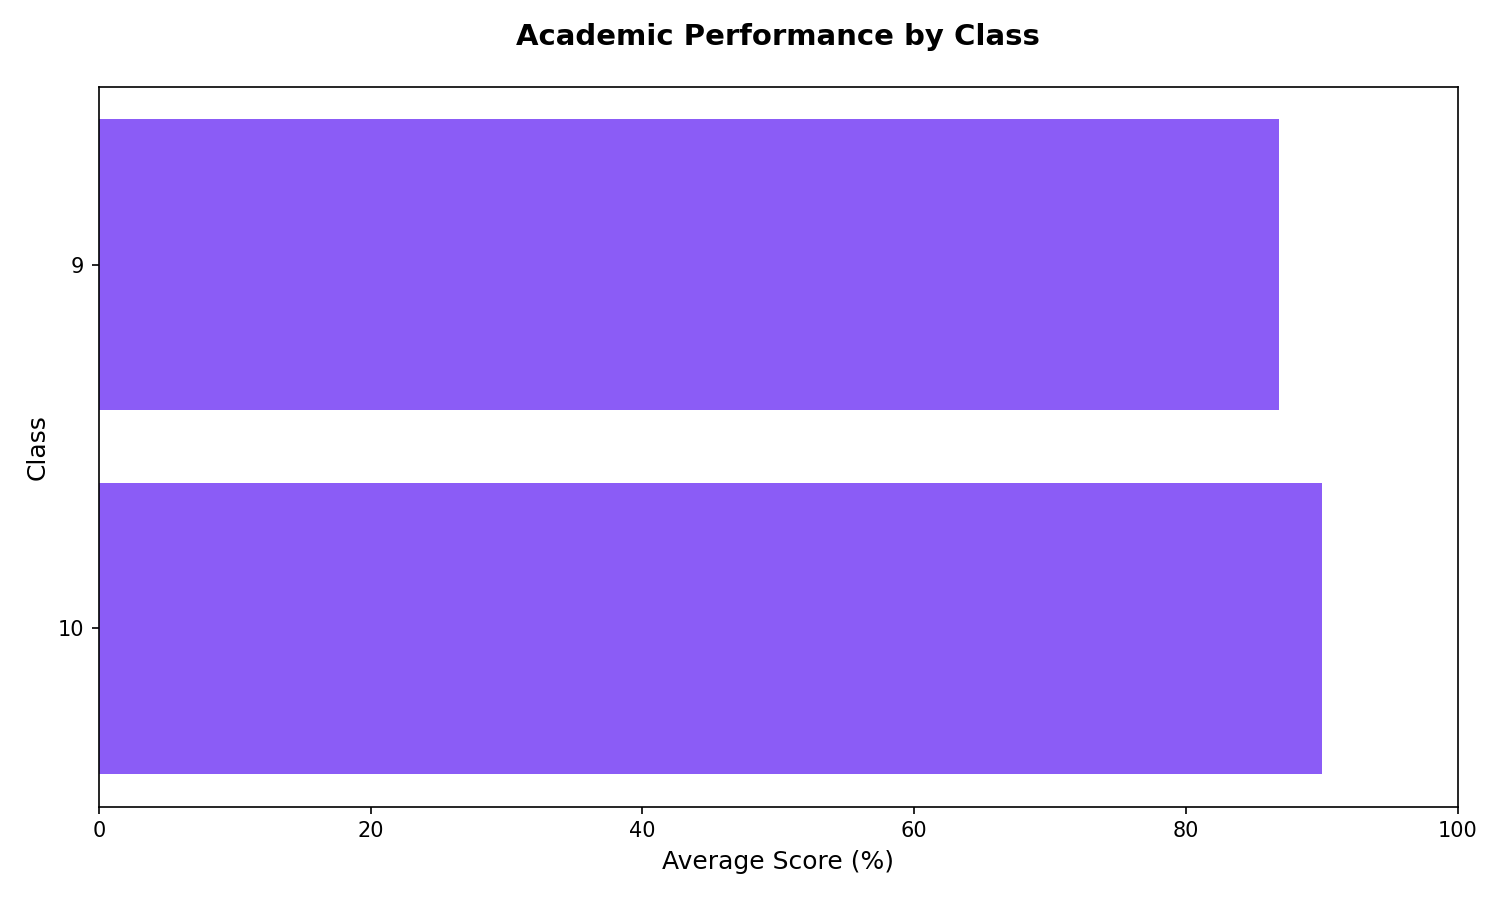
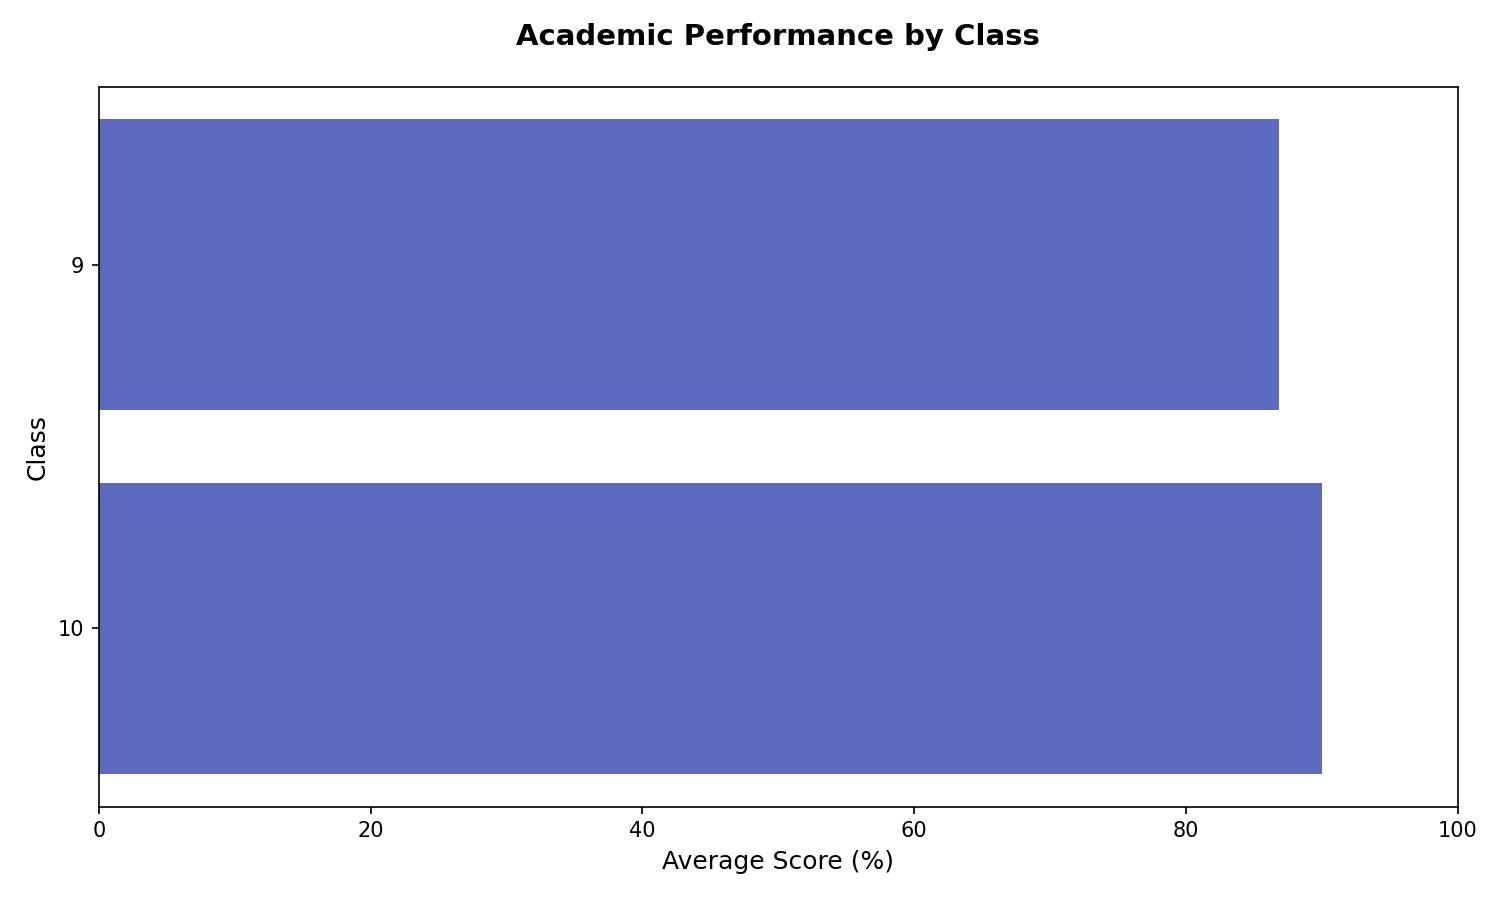
The project is free from bugs

diff --git a/src/main/python/report_generator.py b/src/main/python/report_generator.py
@@ -23,8 +23,8 @@ def generate_enrollment_report(conn):
     df = pd.read_sql(query, conn)
 
     plt.figure(figsize=(10, 6))
-    plt.plot(df['month'], df['count'], marker='o', color='
-    plt.fill_between(df['month'], df['count'], color='
+    plt.plot(df['month'], df['count'], marker='o', color='#2e7d32')
+    plt.fill_between(df['month'], df['count'], color='#e8f5e9')
     plt.title('Student Enrollment Trends', fontsize=14, fontweight='bold', pad=20)
     plt.xlabel('Month', fontsize=12)
     plt.ylabel('New Admissions', fontsize=12)
@@ -43,7 +43,7 @@ def generate_attendance_report(conn):
     df = pd.read_sql(query, conn)
 
     plt.figure(figsize=(10, 6))
-    colors = ['
+    colors = ['#4fc3f7', '#ffb74d', '#81c784', '#e57373', '#ba68c8']
     plt.bar(df['class'], df['percentage'], color=colors[:len(df)])
     plt.title('Average Attendance by Class', fontsize=14, fontweight='bold', pad=20)
     plt.xlabel('Class', fontsize=12)
@@ -76,7 +76,7 @@ def generate_fee_report(conn):
     plt.figure(figsize=(8, 8))
     labels = ['Paid (This Month)', 'Pending']
     sizes = [total_paid, total_pending]
-    colors = ['
+    colors = ['#66bb6a', '#ef5350']
 
     if total_paid + total_pending > 0:
         plt.pie(sizes, labels=labels, autopct='%1.1f%%', startangle=140, colors=colors, explode=(0.1, 0))
@@ -93,7 +93,7 @@ def generate_performance_report(conn):
     df = pd.read_sql(query, conn)
 
     plt.figure(figsize=(10, 6))
-    plt.barh(df['class'], df['avg_score'], color='
+    plt.barh(df['class'], df['avg_score'], color='#5c6bc0')
     plt.title('Academic Performance by Class', fontsize=14, fontweight='bold', pad=20)
     plt.xlabel('Average Score (%)', fontsize=12)
     plt.ylabel('Class', fontsize=12)

diff --git a/src/main/java/com/example/project1/AppController.java b/src/main/java/com/example/project1/AppController.java
@@ -18,8 +18,6 @@ import jakarta.servlet.http.HttpServletResponse;
 import jakarta.servlet.http.HttpSession;
 import java.io.BufferedReader;
 import java.io.InputStreamReader;
-import java.util.ArrayList;
-import java.util.HashMap;
 
 @Controller
 public class AppController {
